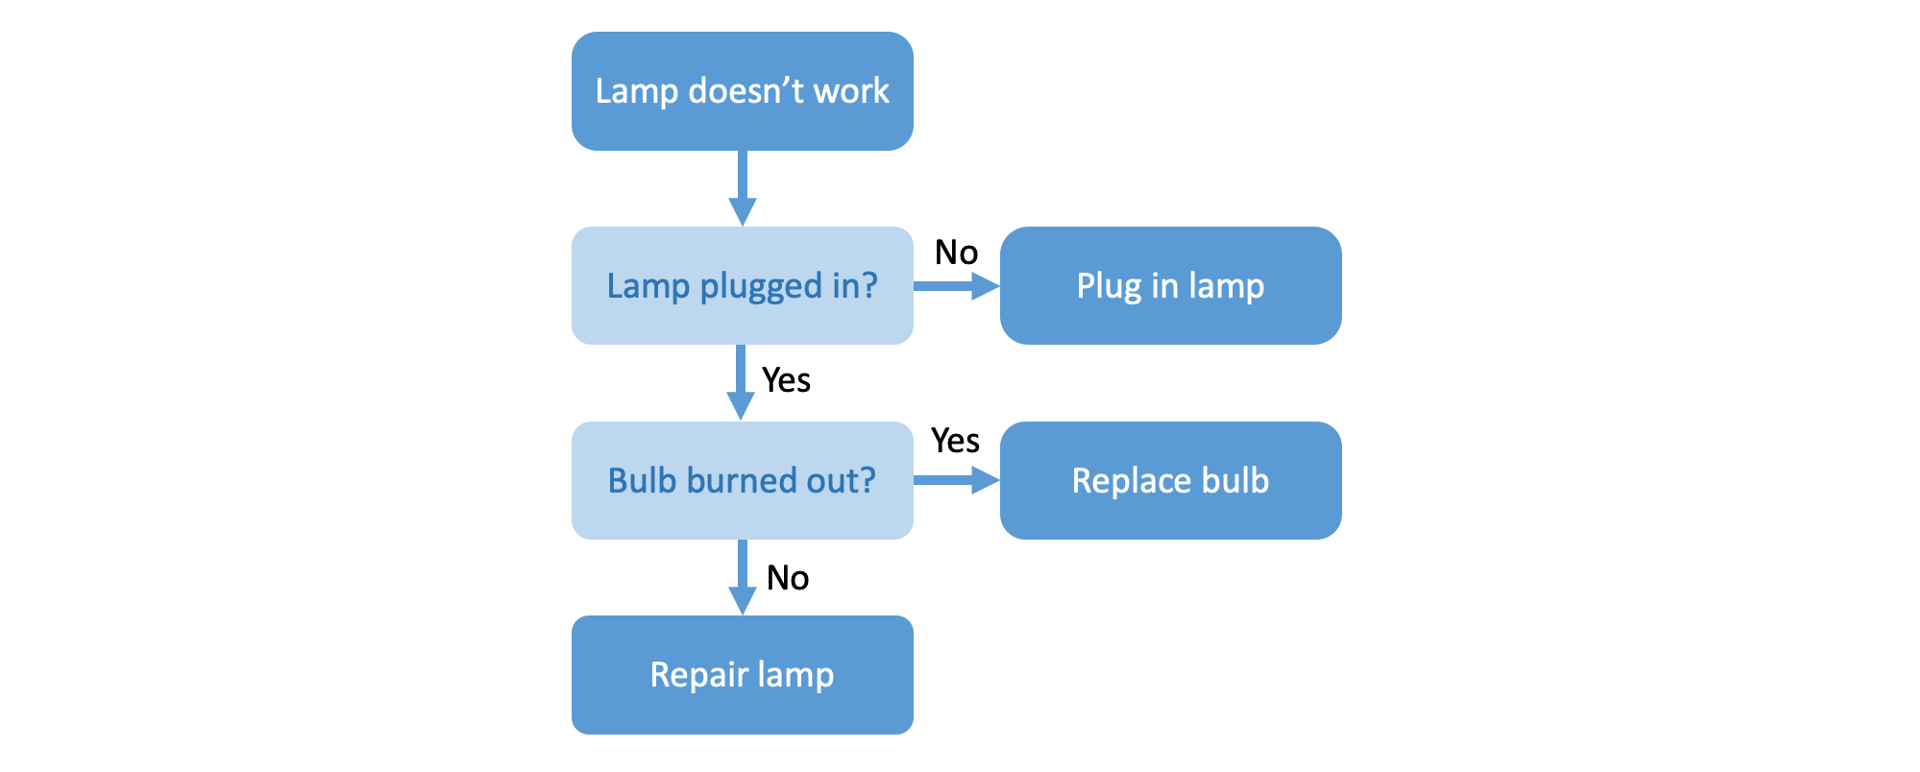
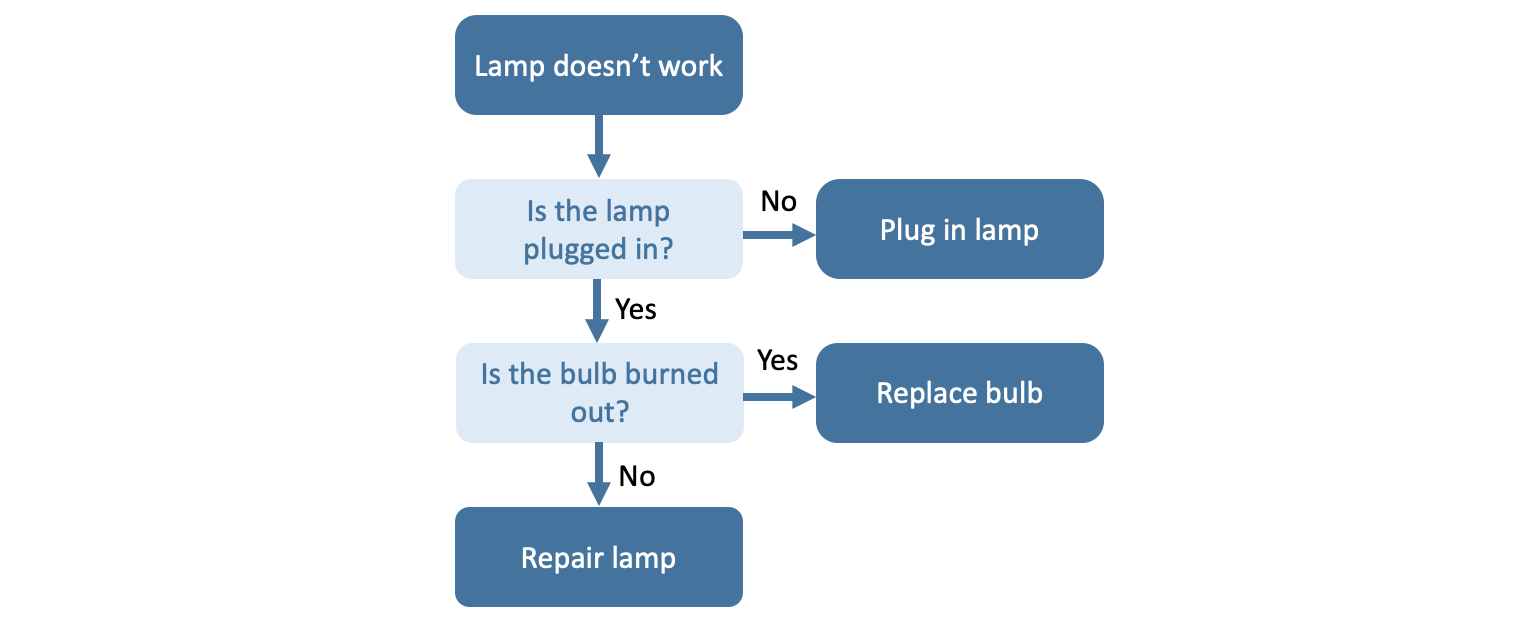
new images with correct blue tones

Changed region(s): [[0.2812, 0.0, 0.7188, 0.9744]]

diff --git a/utils/page_1_2_types_and_values.py b/utils/page_1_2_types_and_values.py
@@ -22,10 +22,10 @@ def page_1_2_types_and_values():
     There are many types in Python, as you can see from the image below. For now, we will focus on integers, floating-point numbers and strings. 
     ''') 
     # image: python data types
-    im = Image.open(os.path.join(os.path.abspath(""),'images','python_data_types_small.png'))
+    im = Image.open(os.path.join(os.path.abspath(""),'images','python_data_types_newblues.png'))
     st.image(im,use_column_width=True, output_format="PNG")
 
-
+    st.subheader("The type() function")
     st.write('''
     If you are not sure what type a value has, you can find out easily. You just have to use the type function, and then the value whose type you want to check inside the brackets. \n
     E.g. if you want to check the type of 3, write type(3).
@@ -40,11 +40,11 @@ def page_1_2_types_and_values():
 
     # exercise 1.2.1
     st.info(''' **Exercise 1.2.1** \n\n 
-    Try checking the types of 3, 53.4 and “Hello World”, in the code window below. \n\n 
+    Try checking the types of 3, 53.4 and “Hello World”, in the code editor below. \n\n 
     Remember: In order to see the output, you have to use the print function. 
     ''')
 
-    # code window
+    # code editor
     ace_editor()
 
     # expander: help
@@ -81,13 +81,13 @@ def page_1_2_types_and_values():
     # exercise 1.2.2
     st.info(''' **Exercise 1.2.3**
     
-    What about values like '3' and '53.4'? 
+    What type are values like '3' and '53.4'? 
     
-    They look like numbers, but they are in quotation marks like string. 
+    They look like numbers but are in quotation marks - just like strings. 
     
-    Try testing the types in the code window below. What do you find? See the result in the dropdown menu below the code window. ''')
+    Try testing the types in the code editor below. What do you find? See the result in the dropdown menu below the code editor. ''')
 
-    # code window
+    # code editor
     ace_editor(key="box2")
 
     # expander: help
